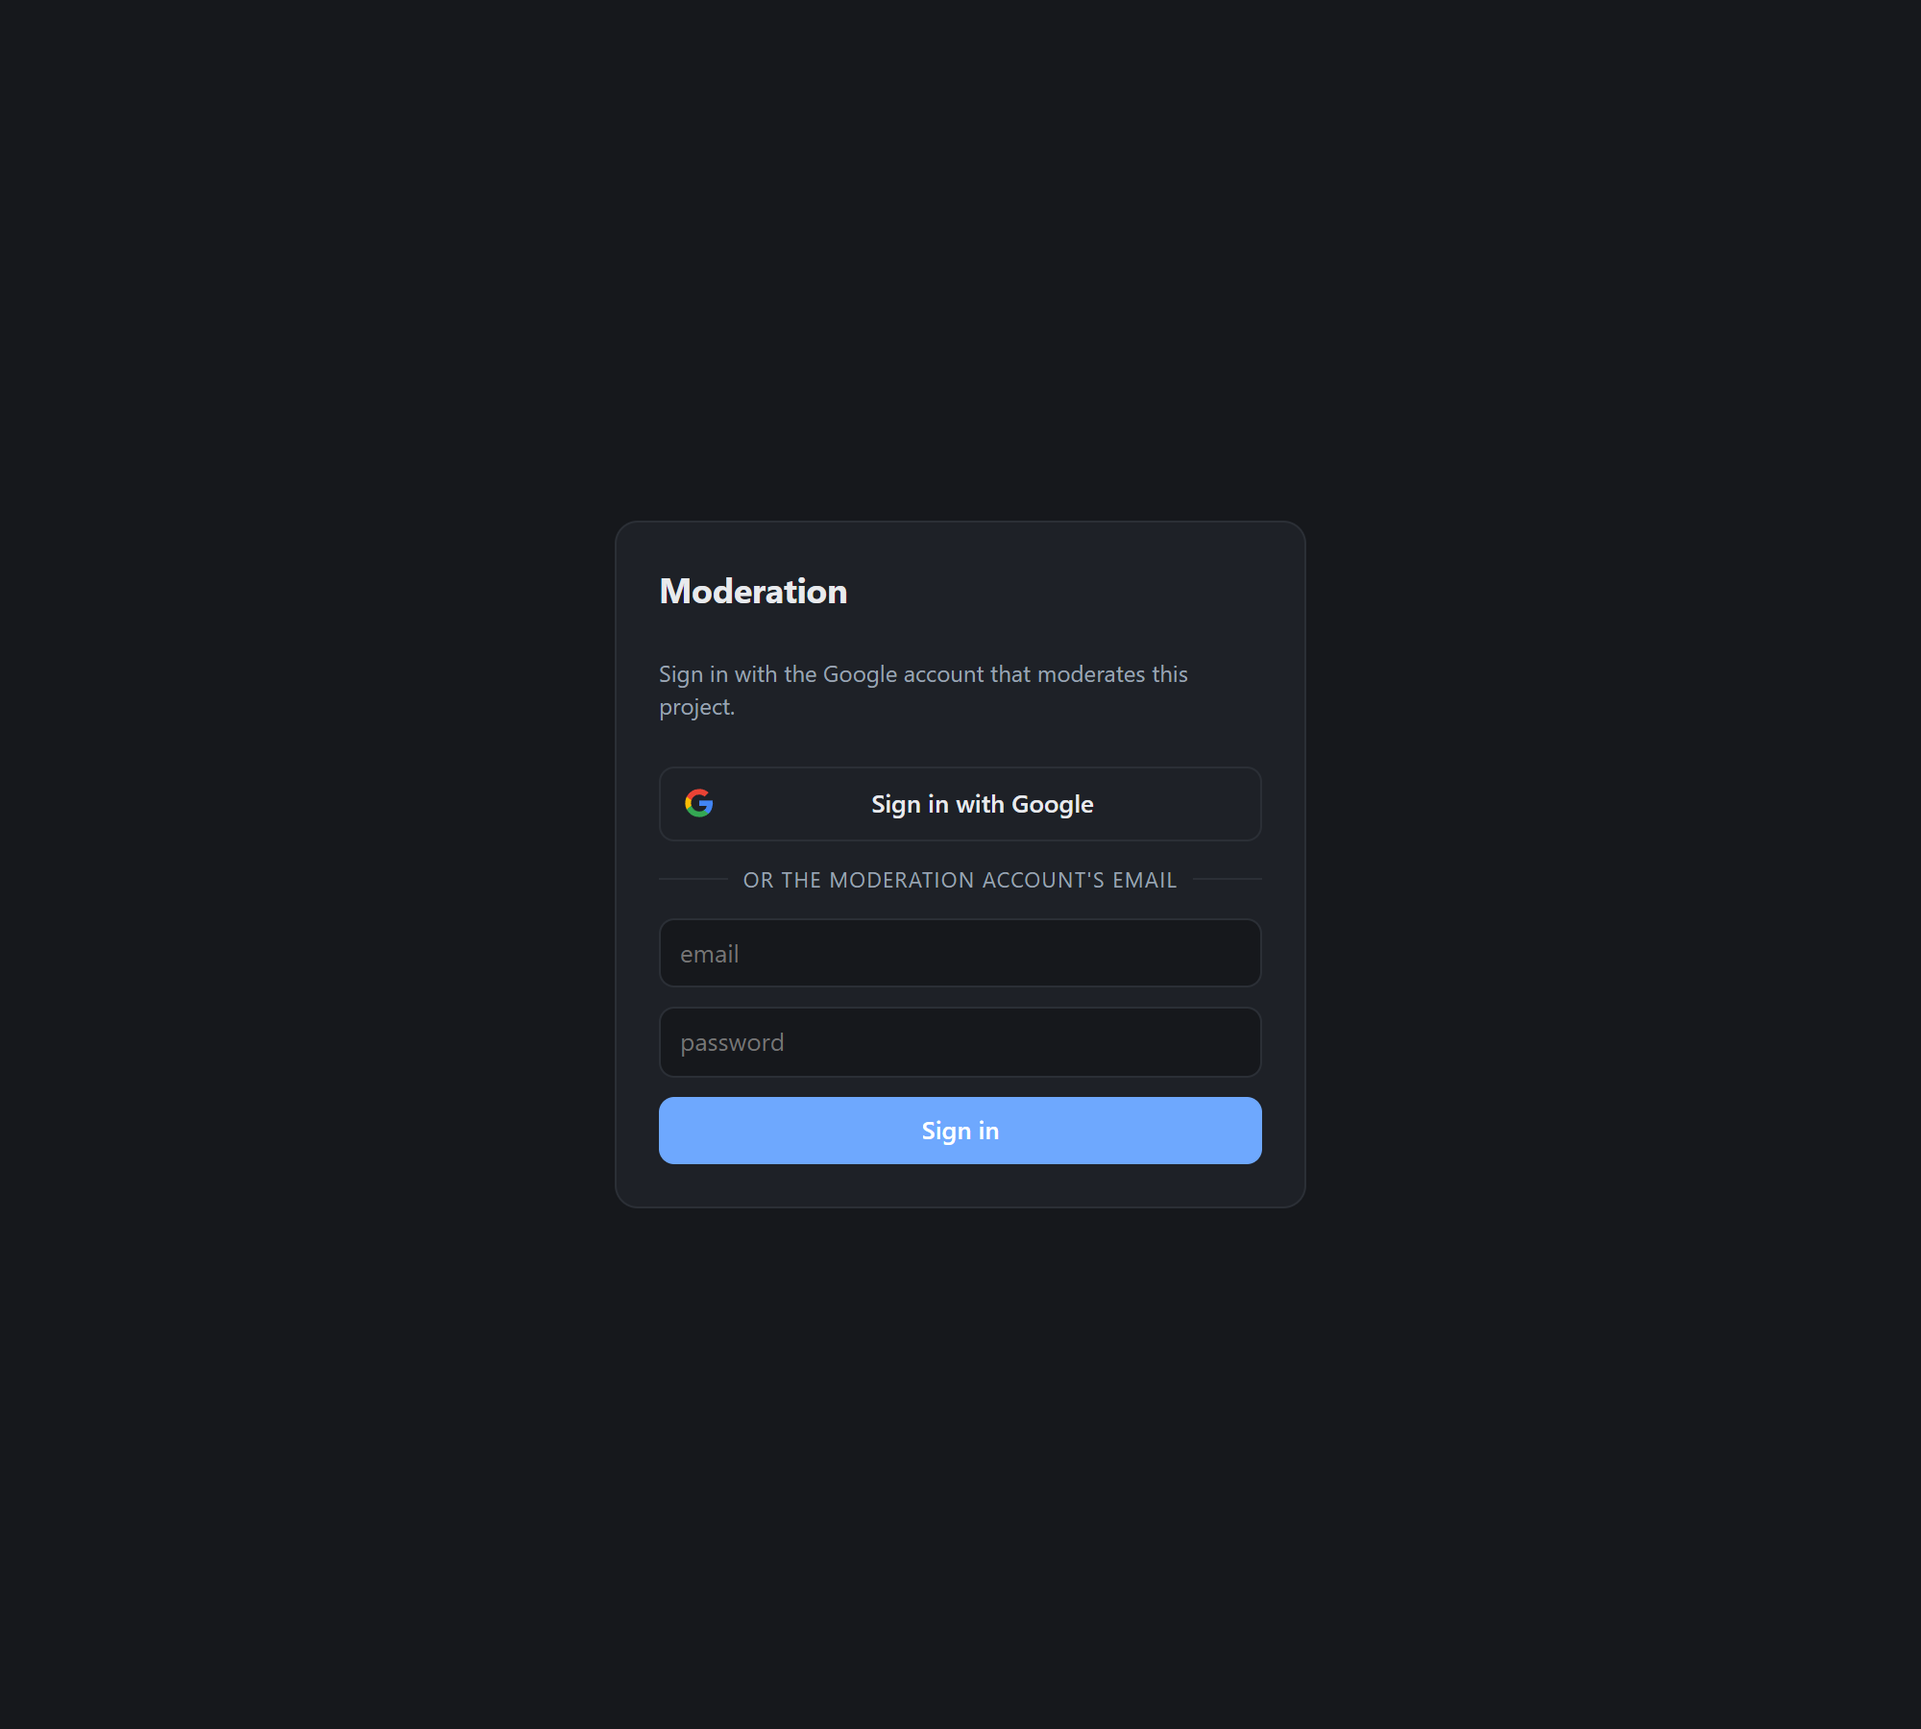
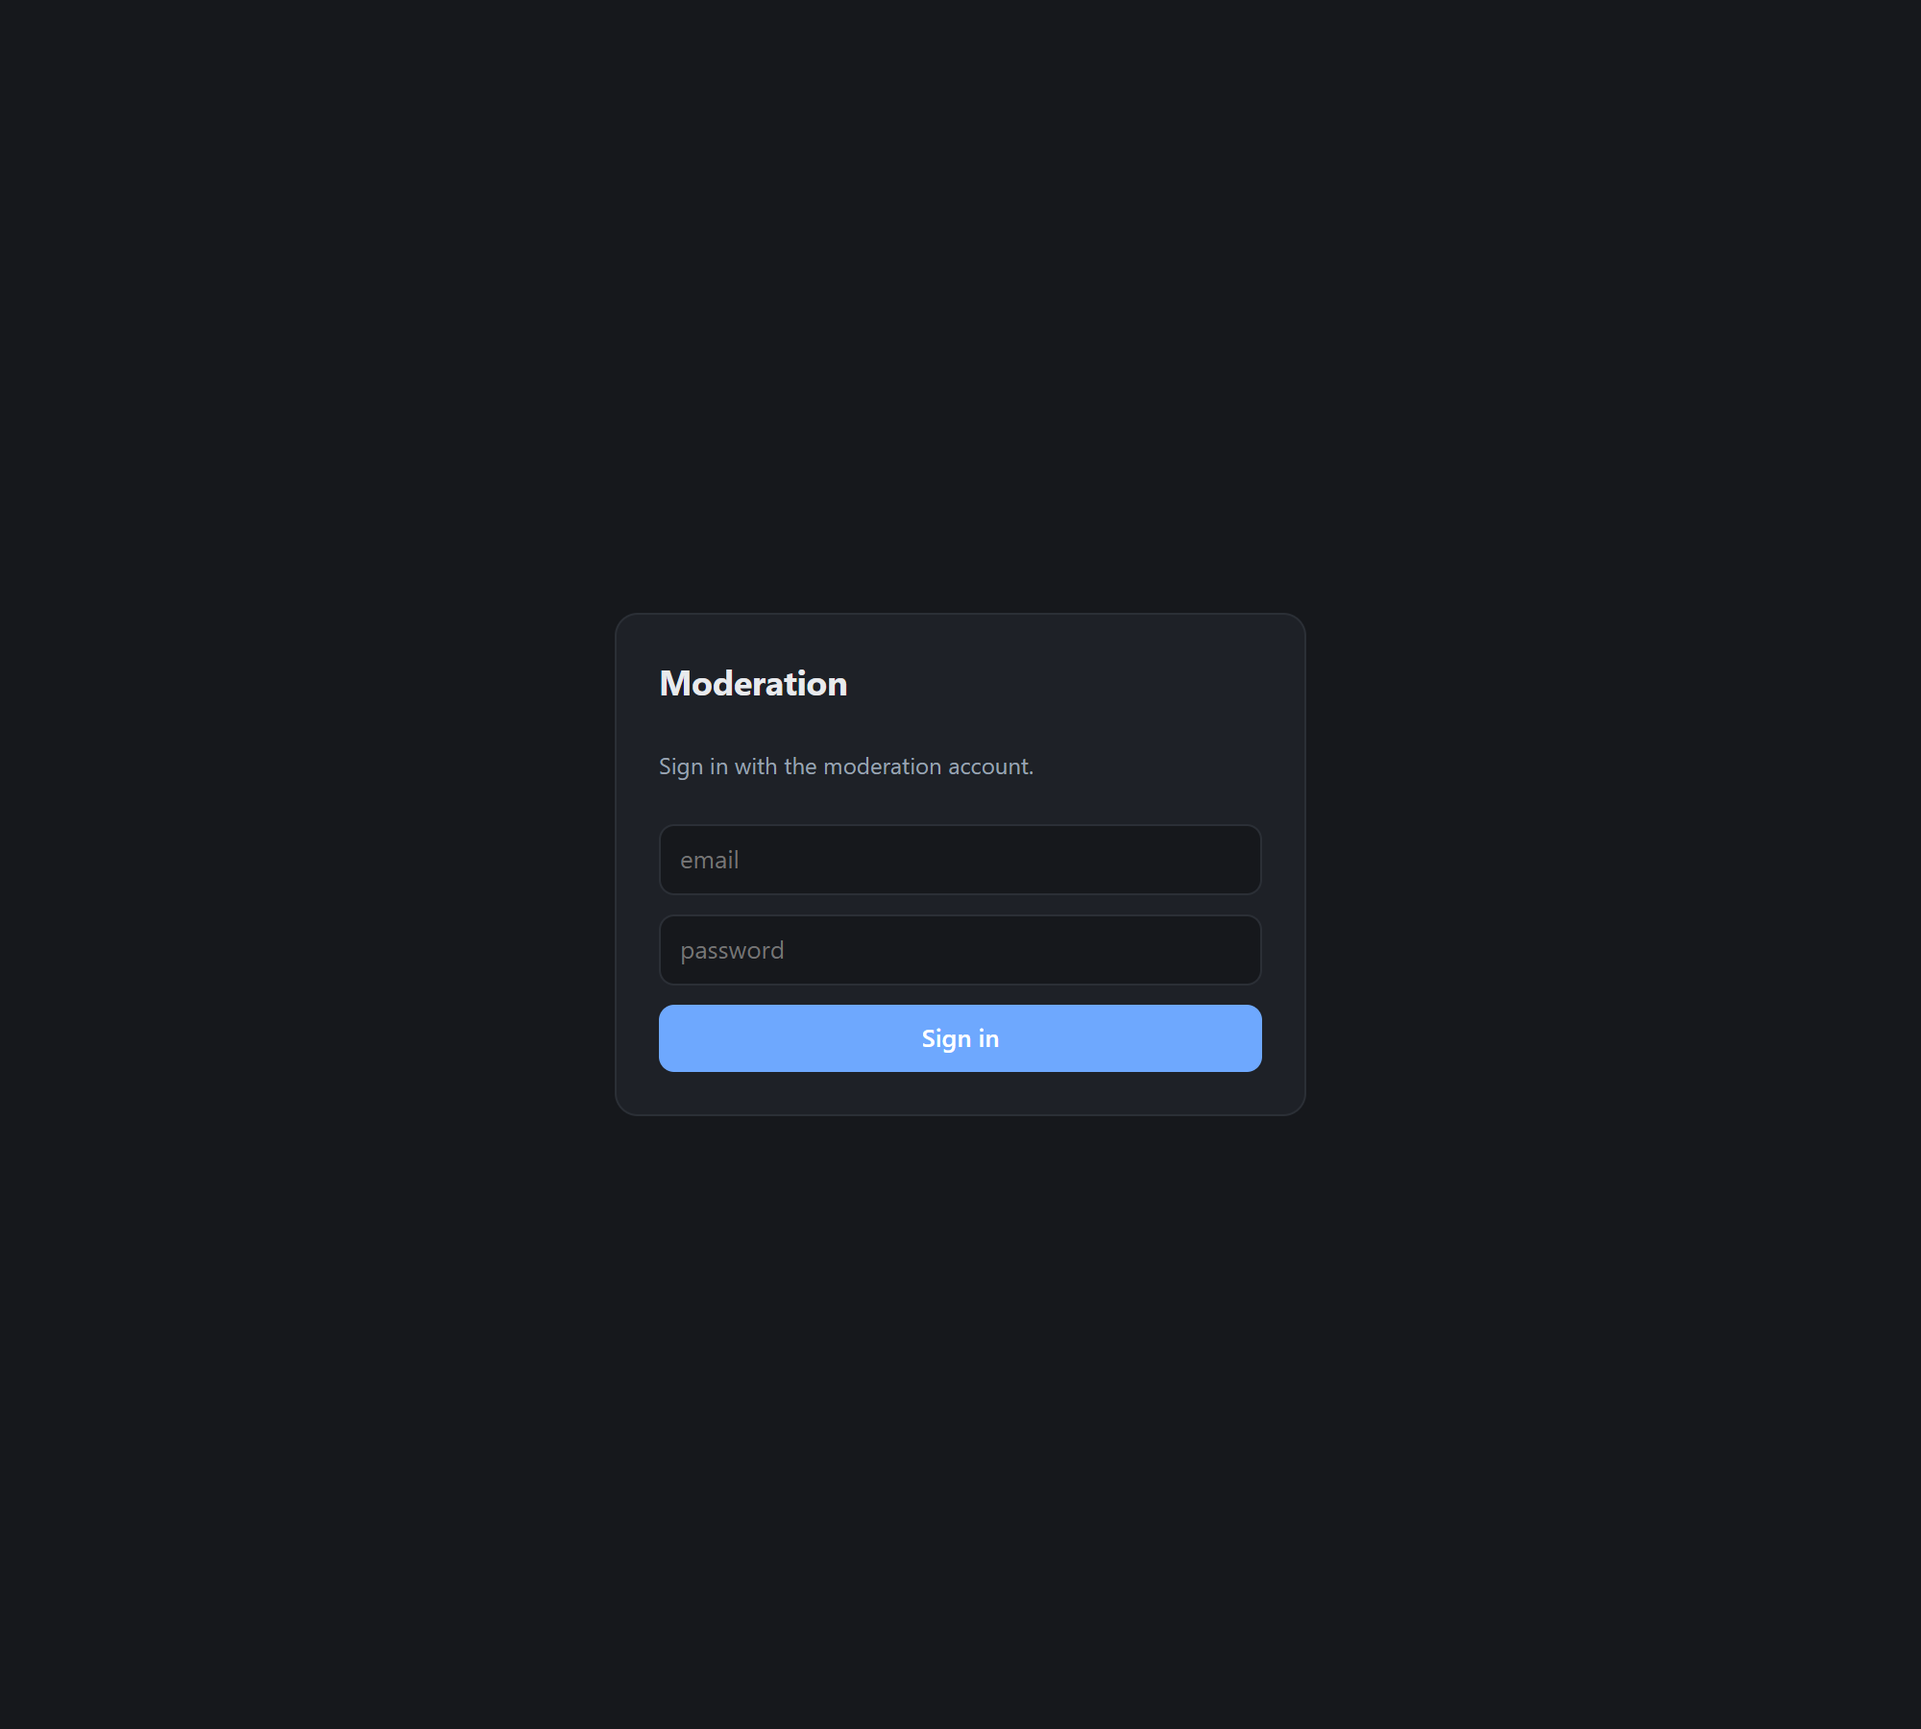
Password sign-in only; Google auth off
The dashboard gate is the moderation account's email and password. The
Google button is gone from the page, signInWithPopup and
GoogleAuthProvider are no longer imported, and firebase-setup only touches
the provider when asked for it (--with-google) -- enabling a provider
nobody signs in with would only widen what the project accepts.

The claim is narrowed to match. It existed because a Google sign-in mints
a uid the owner cannot discover without opening a dashboard they cannot
open; with Google off and the password account pinned, a standing create
rule on admin/allowlist was a door for a feature that is not running. It
now requires adminUids() to be EMPTY, so on any normally provisioned
project -- where setup pins the moderation account -- the door is shut and
a second account cannot take a project that already has an owner. The
bootstrap case it was built for still works, and turning Google back on
later is one --add-admin, because the allowlist holds uids rather than
sign-in methods.

firebase-test 148 -> 149: the new check is the important one, "with an
admin already pinned, nobody can claim the project". The claim block now
empties the pinned list to test the bootstrap path rather than renaming
the uid in it, which would no longer exercise anything.

Live: the deployed gate has no Google markup, the admin signs in with the
password and reads reports (HTTP 200), --claim-status reports unclaimed
with sign-up closed. check, queue 90, e2e 26, dashboard-visual green.

Changed region(s): [[0.341, 0.4978, 0.682, 0.6844], [0.341, 0.3111, 0.62, 0.5289]]

diff --git a/tools/firebase-setup.js b/tools/firebase-setup.js
@@ -4,7 +4,7 @@
  *   node tools/firebase-setup.js [--project clone-blocker2]
  *                                [--location asia-southeast1]
  *                                [--email admin@example.com]
- *                                [--google-client-id ID --google-client-secret SECRET]
+ *                                [--with-google --google-client-id ID --google-client-secret SECRET]
  *                                [--deploy]
  *
  * Two standalone commands maintain the admin allowlist in firestore.rules,
@@ -40,7 +40,7 @@
  *   2. create the (default) Firestore database if the project has none
  *   3. create a web app registration if the project has none
  *   4. enable email/password sign-in
- *   5. enable Google sign-in (or say exactly what to click if it cannot)
+ *   5. enable Google sign-in ONLY with --with-google (off by default)
  *   6. create the admin user (random password -> .env) if missing
  *   7. disable public sign-up, so the admin stays the only account
  *   8. put the admin's UID in the firestore.rules allowlist
@@ -65,6 +65,7 @@ const ROOT = path.join(__dirname, '..');
 // without touching what production runs.
 const ADD_ADMIN = argOf('add-admin', null);
 const LIST_ADMINS = args.includes('--list-admins');
+const WITH_GOOGLE = args.includes('--with-google');
 const CLAIM_STATUS = args.includes('--claim-status');
 const OPEN_CLAIM = args.includes('--open-claim');
 const CLOSE_CLAIM = args.includes('--close-claim');
@@ -499,7 +500,12 @@ async function addAdminCommand(uid) {
 
   // -- 5. Google sign-in -----------------------------------------------------
   //
-  // The dashboard's main door. Identity Toolkit models a provider as a
+  // Off unless asked for. Google sign-in is disabled for now (the moderation
+  // account signs in with a password), and enabling a provider nobody uses
+  // would only widen what this project accepts. --with-google turns the step
+  // back on when that changes.
+  //
+  // Identity Toolkit models a provider as a
   // defaultSupportedIdpConfig, and google.com needs an OAuth client id and
   // secret: the sign-in popup is a Google OAuth consent flow, and consent is
   // granted to a client, not to a Firebase project.
@@ -511,7 +517,9 @@ async function addAdminCommand(uid) {
   // lets the rest of the run continue. Half a provisioned project plus one
   // clear instruction beats a failed run that also skipped the rules and the
   // seed.
-  {
+  if (!WITH_GOOGLE) {
+    console.log('google    : skipped -- password sign-in only (--with-google to enable)');
+  } else {
     const base = `https://identitytoolkit.googleapis.com/admin/v2/projects/${PROJECT}/defaultSupportedIdpConfigs`;
     const creds = GOOGLE_CLIENT_ID && GOOGLE_CLIENT_SECRET
       ? { clientId: GOOGLE_CLIENT_ID, clientSecret: GOOGLE_CLIENT_SECRET }

diff --git a/tools/firebase-test.js b/tools/firebase-test.js
@@ -1006,9 +1006,29 @@ async function swapRules() {
       `http://${HOST}/emulator/v1/projects/${PROJECT}:securityRules`,
       { method: 'PUT', headers: { 'content-type': 'application/json' },
         body: JSON.stringify({ rules: { files: [{ name: 'firestore.rules', content }] } }) });
-    await putRules(rulesSrc.split(pinned).join('nobody-at-all'));
 
     const ALICE = 'claim-alice', BOB = 'claim-bob';
+    const claimBody0 = (uid) => ({ fields: {
+      uids: { arrayValue: { values: [{ stringValue: uid }] } },
+      claimedAt: { stringValue: new Date().toISOString() },
+      claimedBy: { stringValue: 'test' } } });
+
+    // First: with somebody pinned -- the normal state of a provisioned
+    // project -- the claim must be shut. This is the guard that stops a second
+    // account taking a project that already has an owner.
+    await putRules(rulesSrc.split(pinned).join(ADMIN_UID));
+    check('with an admin already pinned, nobody can claim the project',
+      (await api('POST', '/admin?documentId=allowlist',
+        claimBody0(ALICE), bearer(ALICE))).status === 403);
+
+    // Now empty the pinned list, which is the only state the claim is for.
+    // Cut between the 'return [' that opens the list and the '];' that closes
+    // it, rather than matching across lines with a regex -- the shape is the
+    // one firestore.rules documents for the --add-admin rewriter.
+    const openAt = rulesSrc.indexOf('return [', rulesSrc.indexOf('function adminUids()'));
+    const closeAt = rulesSrc.indexOf('];', openAt);
+    const unpinned = rulesSrc.slice(0, openAt + 'return ['.length) + rulesSrc.slice(closeAt);
+    await putRules(unpinned);
     const claimBody = (uid) => ({ fields: {
       uids: { arrayValue: { values: [{ stringValue: uid }] } },
       claimedAt: { stringValue: new Date().toISOString() },

diff --git a/hosting/admin/admin.js b/hosting/admin/admin.js
@@ -20,7 +20,7 @@
 import { initializeApp } from 'https://www.gstatic.com/firebasejs/10.14.1/firebase-app.js';
 import {
   getAuth, connectAuthEmulator, signInWithEmailAndPassword, signOut,
-  onAuthStateChanged, signInWithPopup, GoogleAuthProvider
+  onAuthStateChanged
 } from 'https://www.gstatic.com/firebasejs/10.14.1/firebase-auth.js';
 
 const $ = (id) => document.getElementById(id);
@@ -478,25 +478,6 @@ function unauthorized() {
   showDenied(auth && auth.currentUser);
 }
 
-$('gateGoogle').addEventListener('click', async () => {
-  $('gateErr').hidden = true;
-  if (!auth) { showGate('Firebase is not configured.'); return; }
-  try {
-    await signInWithPopup(auth, new GoogleAuthProvider());
-  } catch (err) {
-    const code = (err && err.code) || '';
-    // A closed or blocked popup is the user's own doing, not a failure worth
-    // shouting about; anything else is worth naming, because the usual cause
-    // is a provider nobody enabled yet.
-    if (/popup-closed-by-user|cancelled-popup-request/.test(code)) return;
-    showGate(/popup-blocked/.test(code)
-      ? 'The browser blocked the sign-in popup. Allow popups for this site and try again.'
-      : /operation-not-allowed|configuration-not-found/.test(code)
-        ? 'Google sign-in is not enabled on this project. Run: node tools/firebase-setup.js'
-        : 'Google sign-in failed: ' + (code || (err && err.message) || 'unknown error'));
-  }
-  // onAuthStateChanged takes it from here: the admin probe, then the app.
-});
 
 $('gateSignOut').addEventListener('click', async () => {
   if (auth) await signOut(auth).catch(() => {});

diff --git a/hosting/admin/index.html b/hosting/admin/index.html
@@ -12,9 +12,7 @@
   <div id="gate" class="gate hidden">
     <form class="gatebox" id="gateForm">
       <h1>Moderation</h1>
-      <p class="note">Sign in with the Google account that moderates this project.</p>
-      <button class="btn google" id="gateGoogle" type="button">Sign in with Google</button>
-      <p class="or">or the moderation account's email</p>
+      <p class="note">Sign in with the moderation account.</p>
       <input type="text" id="gateUser" placeholder="email" autocomplete="username" autofocus>
       <input type="password" id="gatePass" placeholder="password" autocomplete="current-password">
       <button class="btn primary" type="submit">Sign in</button>

diff --git a/README.md b/README.md
@@ -155,10 +155,10 @@ the rendering — putting strangers' text about named people on screen through
 ## Moderation dashboard
 
 Served by **Firebase Hosting** from your own project — for this one,
-**https://clone-blocker2.web.app/admin/**. Sign in with Google, or with the
-Firebase Auth email and password the setup script created — either account can
-be an admin, and a Google sign-in mints a different UID than the password
-account, so both UIDs go in the allowlist. The dashboard used to live at the site
+**https://clone-blocker2.web.app/admin/**. Sign in with the Firebase Auth email
+and password the setup script created. (Google sign-in is switched off for now;
+the allowlist holds UIDs, so adding it later is a matter of adding one more.)
+The dashboard used to live at the site
 root and moved under `/admin/` when the root became the public transparency
 page, so an old bookmark needs updating. There is no server of yours to start or
 keep running.
@@ -207,39 +207,39 @@ rather than something a transaction has to defend.
 
 ### Admin access
 
-A short list of UIDs, and nothing else. The setup script creates the admin user
-in Firebase Auth with a random password (written to `.env`, which is
-gitignored), puts that account's UID in the allowlist inside `firestore.rules`,
-and disables public sign-up at the Auth configuration level. There is no user
-database to administer: the security rules recognise the UIDs in that list, and
-nobody else can create an account to try.
+A short list of UIDs, and nothing else. **Sign in with the moderation account's
+email and password.** The setup script creates that account in Firebase Auth
+with a random password (written to `.env`, which is gitignored), pins its UID
+in the allowlist inside `firestore.rules`, and disables public sign-up at the
+Auth configuration level. There is no user database to administer: the rules
+recognise the UIDs in that list, and nobody else can create an account to try.
 
-**The first person to sign in owns the project.** A UID compiled into the rules
-can only be added by editing and deploying that file, which is a chicken and
-egg for anyone signing in with Google: you cannot learn your own UID without
-opening a dashboard you cannot open. So on a project nobody has claimed yet,
-signing in *is* the claim — the dashboard creates `admin/allowlist` with your
-account in it, and from then on it is admin-only like everything else. The
-rules do the deciding: the create succeeds only when the document is absent and
-only when the single UID inside is the caller's own, so a second person gets a
-conflict rather than a takeover, and nobody can install somebody else.
+Google sign-in is switched off for now. The provider is not enabled, the
+dashboard has no Google button, and `firebase-setup.js` only touches the
+provider when asked (`--with-google`). Turning it on later is the only thing
+that makes the rest of this section matter.
 
-Sign-up is disabled by default, so open the window on purpose and shut it again:
+**A project with nobody pinned is claimed by whoever signs in first.** A UID
+compiled into the rules can only be added by editing and deploying that file,
+which is a chicken and egg for a Google sign-in: you cannot learn your own UID
+without opening a dashboard you cannot open. So when `adminUids()` is empty,
+signing in creates `admin/allowlist` with that account inside and it becomes
+the admin. The rules do the deciding — the create succeeds only when the
+document is absent, only when the single UID inside is the caller's own, and
+**only while nobody is pinned**. On a normally provisioned project there is
+already an admin, so that door is shut; a second account cannot take a project
+that has an owner.
+
+Opening the window is deliberate, because sign-up is disabled by default:
 
 ```
 node tools/firebase-setup.js --open-claim     # let an account be created
-#   ... sign in with Google at /admin/ -- that account becomes the admin ...
 node tools/firebase-setup.js --close-claim    # shut it again
 node tools/firebase-setup.js --claim-status   # who has it, is it still open
 ```
 
-Between opening and claiming, anyone who reaches that page could take it
-instead. The window is meant to be seconds long, and `--claim-status` exists so
-"is it still open?" is a question with an answer rather than a memory.
-
-Two ways in, one allowlist. Signing in with Google is the usual door; email and
-password stays as the fallback for when a Google account is not to hand. They
-are different UIDs for the same person, so the list holds both:
+One allowlist, however many ways in. It holds UIDs, not sign-in methods, so a
+Google account added later is one more entry rather than a second mechanism:
 
 ```
 node tools/firebase-setup.js --list-admins            # who can moderate today

diff --git a/docs/ROADMAP.md b/docs/ROADMAP.md
@@ -233,6 +233,9 @@ uid was the failure mode worth engineering against.
 
 - Enable the Google provider (`firebase-setup.js` gains the Identity Toolkit
   `defaultSupportedIdpConfigs` call; console fallback documented).
+- (Since switched OFF at the owner's request, 2026-08-21: password sign-in
+  only, no Google button, `--with-google` re-enables the provider step, and
+  the claim below is restricted to projects with nobody pinned.)
 - Dashboard gate grows a "Sign in with Google" button
   (`signInWithPopup(GoogleAuthProvider)`); email/password stays as fallback.
 - Rules `isAdmin()` becomes a UID *list*. A Google sign-in mints a different
